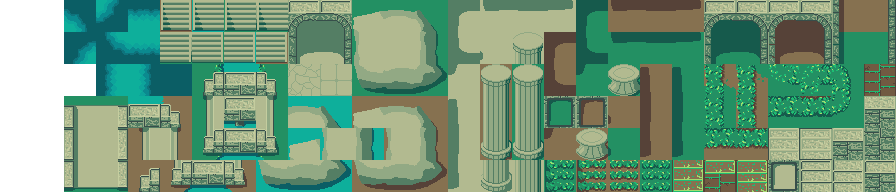
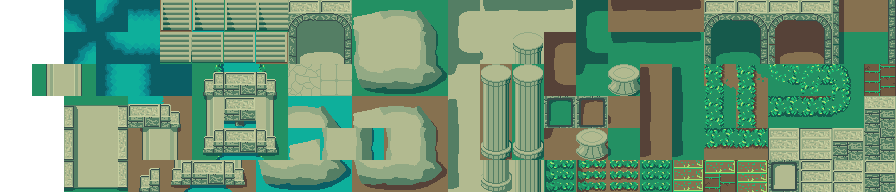
current tile highlight

Changed region(s): [[0.0312, 0.3125, 0.125, 0.5], [0.25, 0.5, 0.3125, 0.5312], [0.1562, 0.6562, 0.1875, 0.6875]]

diff --git a/level_editor/UI_workspaceContainer.py b/level_editor/UI_workspaceContainer.py
@@ -29,6 +29,9 @@ current_stack = tile_set
 playout = None
 level_data = {}
 current_name = None
+highlighted_tile = None
+ht = None
+lpt = None
 
 class LevelData():
     def __init__(self):
@@ -103,6 +106,7 @@ class tileGridWorkspace(QWidget):
         self.layout.setContentsMargins(0,0,0,0)
         self.width = self.geometry().width()
         self.height = self.geometry().height()
+        
         self.setMinimumWidth(self.width)
         self.setMaximumHeight(self.height)
         self.ratio = self.width/self.height
@@ -114,7 +118,8 @@ class tileGridWorkspace(QWidget):
                 self.count = self.count + 1
                 level_data[self.count] = 'e'
                 self.checker = self.checker + 1
-                self.squares[self.count] = ClickableQLabel()
+                self.squares[self.count] = ClickableQLabel_t()
+                self.squares[self.count].setMouseTracking(True)
                 self.squares[self.count].gridIndex = self.count
                 self.squares[self.count].setScaledContents( True )
                 self.squares[self.count].clicked.connect(self.change_color)
@@ -124,8 +129,8 @@ class tileGridWorkspace(QWidget):
                 if self.checker % 2 == 0:
                     self.squares[self.count].setStyleSheet("color: white; background-color: black;")
                 else:
-                    self.squares[self.count].setStyleSheet("color: white; background-color: #111111;")
-                if x % 5 == 0 and y % 5 == 0:
+                    self.squares[self.count].setStyleSheet("color: white; background-color: #222222;")
+                if x % 3 == 0 and y % 3 == 0:
                     self.squares[self.count].setText(str(self.squares[self.count].gridIndex))
         self.setLayout(self.layout)
     
@@ -138,9 +143,27 @@ class tileGridWorkspace(QWidget):
    
     def reset_color(self):
         self.sender().clear()
-        
+    
+class ClickableQLabel_t(QLabel):
+    clicked=pyqtSignal()
+    global highlighted_tile
+    right_clicked=pyqtSignal()
+    def mousePressEvent(self, ev):
+        if ev.button() == Qt.LeftButton:
+            global ht
+            ht.setText("Current grid space: "+str(highlighted_tile))
+            self.clicked.emit()
+        elif ev.button() == Qt.RightButton:
+            self.right_clicked.emit()
+            
+    def mouseMoveEvent(self, ev):
+        highlighted_tile=self.gridIndex
+        global ht
+        ht.setText("Current grid space: "+str(highlighted_tile))
+
 class ClickableQLabel(QLabel):
     clicked=pyqtSignal()
+    global highlighted_tile
     right_clicked=pyqtSignal()
     QLabel.gridIndex = 0
     def mousePressEvent(self, ev):
@@ -185,17 +208,22 @@ class TilesInfo(QTabWidget):
         global p_ttype_pix
         global ttype_name
         global tile_stack
-        
+        global highlighted_tile
+        global ht
+       
         ttype_label = QLabel(ttype)
         ttype_pix = QLabel()
         p_ttype_label = ClickableQLabel()
         p_ttype_label.clicked.connect(self.assignLastTile)
         pr_label = QLabel("  Previous tile\n  (click to select or press P)  ")
         
+        ht = QLabel()
+       
         p_ttype_label.setAlignment(Qt.AlignVCenter | Qt.AlignHCenter)
         pr_label.setAlignment(Qt.AlignVCenter | Qt.AlignHCenter)
         ttype_label.setAlignment(Qt.AlignVCenter | Qt.AlignHCenter)
         ttype_pix.setAlignment(Qt.AlignVCenter | Qt.AlignHCenter)
+        ht.setAlignment(Qt.AlignVCenter | Qt.AlignHCenter)
 
         self.layout = QVBoxLayout()
         self.layout.setContentsMargins(0,0,0,0)
@@ -204,6 +232,7 @@ class TilesInfo(QTabWidget):
         self.layout.addWidget(ttype_label)
         self.layout.addWidget(pr_label)
         self.layout.addWidget(p_ttype_label)
+        self.layout.addWidget(ht)
         
         ttype_label.setMaximumHeight(40)
         pr_label.setMaximumHeight(40)
@@ -213,6 +242,7 @@ class TilesInfo(QTabWidget):
         ttype_label.setStyleSheet("font-size: "+str(data["font_size"])+"px; background-color: "+self.active_theme.window_background_color+";color: "+self.active_theme.window_text_color)
         ttype_pix.setStyleSheet("font-size: "+str(data["font_size"]-2)+"px; background-color: "+self.active_theme.window_background_color+";color: "+self.active_theme.window_text_color)
         pr_label.setStyleSheet("font-size: "+str(data["font_size"]-2)+"px; background-color: "+self.active_theme.list_background_color+";color: "+self.active_theme.window_text_color)
+        ht.setStyleSheet("font-size: "+str(data["font_size"]-2)+"px; background-color: "+self.active_theme.list_background_color+";color: "+self.active_theme.window_text_color)
         self.wi = QWidget()
         self.wi.setLayout(self.layout)
         self.addTab(self.wi, "Selections")
@@ -248,8 +278,6 @@ class TilesInfo(QTabWidget):
         ttype_pix.setPixmap(ttype_img.scaled(int(64), int(64), Qt.KeepAspectRatio))
         current_sender = previous_sender
         current_tile = current_sender.pixmap()
-
-
         
 class Tiles(QWidget):
     def __init__(self):
@@ -288,7 +316,7 @@ class Tiles(QWidget):
             for x in range(0,int(self.pixmap.width()/32)):
                 for y in range(0,int(self.pixmap.height()/32)):
                     self.count +=1
-                    tiles[y][x] = ClickableQLabel()
+                    tiles[y][x] = ClickableQLabel_t()
                     tiles[y][x].count = self.count
                     tiles[y][x].clicked.connect(self.assignCurrentTile)
 
@@ -308,7 +336,6 @@ class Tiles(QWidget):
         playout.setCurrentIndex(0)
     
     def assignCurrentTile(self):
-        
         global current_tile
         global previous_sender
         global current_sender
@@ -318,7 +345,7 @@ class Tiles(QWidget):
         global p_ttype_label
         global level_data
         global current_name
-        
+     
         try:
             previous_sender.setStyleSheet("background-color: black;")
             p_ttype_label.setPixmap(previous_sender.pixmap())
